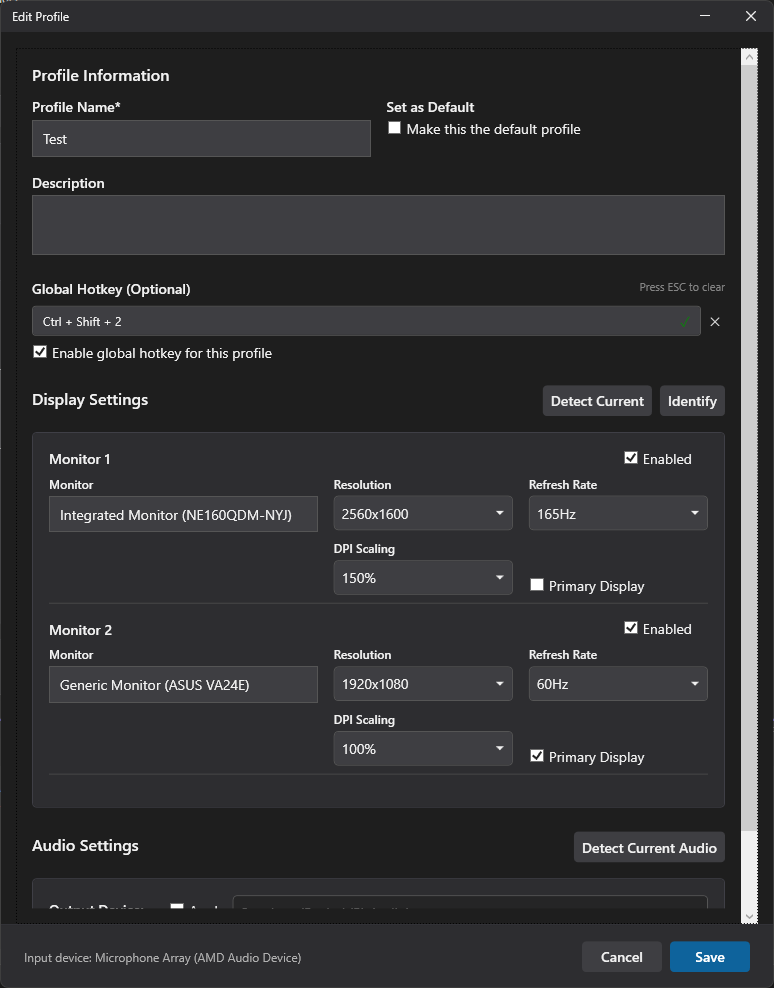
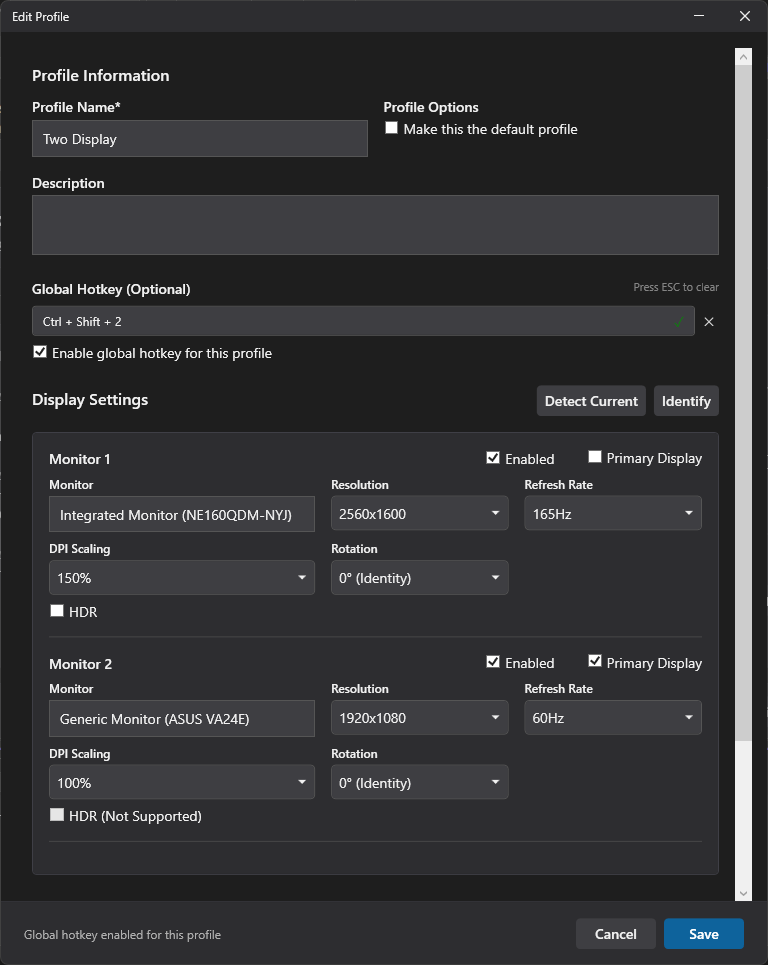
docs: update documentation to reflect HDR, rotation, and staged application features
Enhance CLAUDE.md with comprehensive architecture documentation including:
- Detailed Display Configuration Engine flow with staged application mode
- Expanded component descriptions (DisplayConfigHelper, ProfileManager, etc.)
- Profile structure with HDR and rotation properties
- Development guidelines for display configuration and WPF UI patterns
- JSON serialization backward compatibility notes

Update README.md to document new features:
- HDR support for HDR-capable displays
- Screen rotation control (0°, 90°, 180°, 270°)
- Staged application mode for complex multi-monitor setups
- Updated screenshots showing new UI controls
- Credit @jarandal for feature contributions in PR #8

diff --git a/CLAUDE.md b/CLAUDE.md
@@ -4,7 +4,7 @@ This file provides guidance to Claude Code (claude.ai/code) when working with co
 
 ## Project Overview
 
-Display Profile Manager is a Windows desktop application for managing display profiles (resolution, refresh rate, DPI, audio devices) with system tray control. Built with C# (.NET Framework 4.8) and WPF.
+Display Profile Manager is a Windows desktop application for managing display profiles (resolution, refresh rate, DPI, HDR, rotation, audio devices) with system tray control. Built with C# (.NET Framework 4.8) and WPF.
 
 ## Build and Run Commands
 
@@ -18,60 +18,117 @@ cmd.exe //c "msbuild DisplayProfileManager.sln /t:Rebuild /p:Configuration=Debug
 
 # Run
 cmd.exe //c "start bin\Debug\DisplayProfileManager.exe"
+
+# Build for specific platforms (x86, x64, ARM64 supported)
+cmd.exe //c "msbuild DisplayProfileManager.sln /p:Configuration=Release /p:Platform=x64"
 ```
 
 ## Architecture
 
 ### Core Patterns
-- **Singletons**: ProfileManager and SettingsManager for global state (thread-safe)
+- **Singletons**: ProfileManager and SettingsManager for global state (thread-safe, double-check locking)
 - **Async/Await**: All file I/O operations
-- **P/Invoke**: Windows display/DPI/audio APIs via Helper classes
-- **MVVM**: ViewModels for UI state
-- **Logging**: NLog
+- **P/Invoke**: Windows Display Configuration, DPI, and Audio APIs via Helper classes
+- **MVVM**: ViewModels for UI state management
+- **Logging**: NLog with structured logging
 
 ### Key Components
-- **ProfileManager**: Thread-safe singleton for profile CRUD, stores individual `.dpm` files in `%AppData%/DisplayProfileManager/Profiles/`
-- **SettingsManager**: Thread-safe singleton for app settings, supports dual auto-start modes (Registry or Task Scheduler)
-- **AutoStartHelper**: Registry mode (no admin) or Task Scheduler mode (requires admin for setup, faster launch)
-- **DisplayHelper/DpiHelper/AudioHelper**: P/Invoke wrappers for Windows APIs
-- **GlobalHotkeyHelper**: System-wide hotkey registration for profile switching
-- **TrayIcon**: System tray integration with dynamic context menu
+- **ProfileManager**: Thread-safe singleton for profile CRUD and application. Stores individual `.dpm` files in `%AppData%/DisplayProfileManager/Profiles/`. Core method: `ApplyProfileAsync(Profile)` returns `ProfileApplyResult`.
+- **SettingsManager**: Thread-safe singleton for app settings. Supports dual auto-start modes (Registry or Task Scheduler) and staged application configuration.
+- **DisplayConfigHelper**: Modern Windows Display Configuration API wrapper using `SetDisplayConfig`. Handles atomic topology application (resolution, refresh rate, position, primary, HDR, rotation, enable/disable). **Critical**: This replaces legacy `ChangeDisplaySettingsEx` for reliability.
+- **DisplayHelper**: Legacy display API wrapper (being phased out in favor of DisplayConfigHelper for topology changes).
+- **DpiHelper**: System-wide DPI scaling via P/Invoke (adapted from windows-DPI-scaling-sample).
+- **AudioHelper**: Audio device management using AudioSwitcher.AudioApi for playback/recording device switching.
+- **AutoStartHelper**: Registry mode (no admin) or Task Scheduler mode (requires admin for setup, faster launch).
+- **GlobalHotkeyHelper**: System-wide hotkey registration using `RegisterHotKey` for profile switching.
+- **TrayIcon**: System tray integration with dynamically generated context menu from profiles.
+
+### Display Configuration Engine (Modern Approach)
+The application uses Windows Display Configuration API (`SetDisplayConfig`) for atomic, reliable profile switching:
+
+**Flow**: `ProfileManager.ApplyProfileAsync` → builds `List<DisplayConfigInfo>` → `DisplayConfigHelper.ApplyDisplayTopology` or `ApplyStagedConfiguration` → `SetDisplayConfig` → `ApplyHdrSettings`
+
+**Staged Application Mode**: Optional two-phase application for complex multi-monitor setups:
+- Phase 1: Apply topology to currently active displays only (partial update)
+- Configurable pause (default 1000ms, range 1-5000ms)
+- Phase 2: Apply full target topology including newly enabled displays
+- Controlled by `UseStagedApplication` and `StagedApplicationPauseMs` settings
+
+**Why Staged Mode**: Prevents driver instability when enabling new displays with complex settings (HDR, high refresh rate) while simultaneously changing existing displays.
 
 ### Data Storage
-- Profiles: `%AppData%/DisplayProfileManager/Profiles/*.dpm` (JSON)
+- Profiles: `%AppData%/DisplayProfileManager/Profiles/*.dpm` (JSON, one file per profile)
 - Settings: `%AppData%/DisplayProfileManager/settings.json` (JSON)
-- Logs: `%AppData%/DisplayProfileManager/Logs/` (daily rotation, 30-day retention)
+- Logs: `%AppData%/DisplayProfileManager/Logs/` (daily rotation, 30-day retention via NLog)
+
+### Profile Structure (DisplaySetting Properties)
+Each monitor in a profile includes:
+- `DeviceName`, `DeviceString`: Monitor identification
+- `Width`, `Height`, `Frequency`: Resolution and refresh rate
+- `Position` (X, Y): Monitor position in virtual desktop
+- `IsPrimary`: Primary display flag
+- `IsEnabled`: Enable/disable monitor
+- `IsHdrSupported`, `IsHdrEnabled`: HDR capability and state
+- `Rotation`: Screen orientation (1=0°, 2=90°, 3=180°, 4=270°) - maps to `DISPLAYCONFIG_ROTATION` enum
+- `DpiScaling`: Windows DPI scaling percentage
 
 ## Dependencies
-- **.NET Framework 4.8**: WPF support
-- **Newtonsoft.Json 13.0.3**: JSON serialization
-- **NLog 6.0.4**: Logging framework
-- **AudioSwitcher.AudioApi 3.0.0/3.0.3**: Audio device management
-- **packages.config**: Traditional NuGet package management (not PackageReference)
+- **.NET Framework 4.8**: WPF support, required for Windows 7+ compatibility
+- **Newtonsoft.Json 13.0.3**: JSON serialization for profiles and settings
+- **NLog 6.0.4**: Logging framework with daily file rotation
+- **AudioSwitcher.AudioApi 3.0.0/3.0.3**: Audio device management (CoreAudio wrapper)
+- **packages.config**: Traditional NuGet package management (not PackageReference) - project uses legacy .csproj format
 
 ## Platform Requirements
-- **Windows**: 7+ (Vista+ compatible via manifest)
+- **Windows**: 7+ (Vista+ compatible via app.manifest)
 - **Privileges**: Standard user (`asInvoker`). Admin only required for Task Scheduler auto-start setup.
-- **DPI Awareness**: Per-monitor V2 via app.manifest
+- **DPI Awareness**: Per-monitor V2 via app.manifest for proper multi-DPI support
+- **Architectures**: AnyCPU (default), x86, x64, ARM64 builds supported
 
 ## Development Guidelines
 
 ### Logging
 - Use NLog: `private static readonly Logger logger = LoggerHelper.GetLogger();`
-- LoggerHelper automatically uses calling class name
+- LoggerHelper automatically uses calling class name via `StackFrame` reflection
 - Logs to `%AppData%/DisplayProfileManager/Logs/DisplayProfileManager-{date}.log`
+- Log levels: Trace (verbose), Debug (development), Info (normal), Warn, Error, Fatal
+
+### Display Configuration Changes
+- **Always use DisplayConfigHelper.ApplyDisplayTopology** for topology changes (resolution, refresh rate, position, enable/disable, primary)
+- **Never use ChangeDisplaySettingsEx directly** - less reliable for multi-monitor
+- Build complete topology as `List<DisplayConfigInfo>` before applying
+- HDR changes applied **after** successful topology application
+- Rotation is part of topology (applied atomically with resolution/position)
 
 ### Auto-Start Implementation
 - Dual mode: Registry (no admin) vs Task Scheduler (admin required for setup)
 - **Critical**: When using Task Scheduler without admin, must use `UseShellExecute = true` + `Verb = "runas"` to trigger UAC
-- Never use `Verb = "runas"` with `UseShellExecute = false` (Verb is ignored)
+- Never use `Verb = "runas"` with `UseShellExecute = false` (Verb is ignored by .NET)
 
 ### Error Handling
-- Return boolean success/failure indicators
-- Use NLog for all error logging
-- Graceful degradation (return empty collections, don't crash)
+- Return boolean success/failure indicators or strongly-typed result objects (`ProfileApplyResult`)
+- Use NLog for all error logging with context (device names, settings attempted)
+- Graceful degradation: return empty collections on failure, don't crash
+- P/Invoke errors: check return codes (`ERROR_SUCCESS = 0`)
+
+### WPF UI Guidelines
+- Extract reusable UI components as standalone `UserControl` in `/src/UI/Controls/` with separate `.xaml` and `.xaml.cs` files
+- Avoid inner classes for UI components in code-behind
+- Use converters in `/src/UI/Converters/` for data binding transformations
+- Theme resources in `/src/UI/Themes/` (LightTheme.xaml, DarkTheme.xaml)
 
 ### File Structure
-- `/src/Core/`: Business logic (ProfileManager, SettingsManager)
-- `/src/UI/`: WPF views and ViewModels
+- `/src/Core/`: Business logic (ProfileManager, SettingsManager, Profile, HotkeyConfig)
+- `/src/UI/Windows/`: WPF windows (MainWindow, ProfileEditWindow, SettingsWindow, MonitorIdentifyWindow)
+- `/src/UI/Controls/`: Custom UserControls (HotkeyEditorControl)
+- `/src/UI/ViewModels/`: MVVM view models
+- `/src/UI/Converters/`: Value converters for data binding
+- `/src/UI/Themes/`: Theme ResourceDictionaries
 - `/src/Helpers/`: P/Invoke wrappers and utilities
+- `/Properties/`: Assembly info and embedded resources
+- `/docs/`: Documentation and sample code references
+
+### JSON Serialization Notes
+- All profile/settings properties use `[JsonProperty("name")]` attributes for consistent naming
+- Backward compatibility: New properties must have sensible defaults for loading old `.dpm` files
+- Example: `IsHdrEnabled` defaults to `false`, `Rotation` defaults to `1` (0°) for profiles created before HDR/rotation support

diff --git a/README.md b/README.md
@@ -25,6 +25,9 @@ A lightweight Windows desktop application for managing display profiles with qui
 - 🖥 **Primary Display Management** - Control which monitor is set as primary
 - 📋 **Profile Duplication** - Quickly duplicate existing profiles for easy modifications
 - 🔍 **Monitor Identification Overlay** - Visual overlay to identify monitors during configuration
+- 🎨 **HDR Support** - Enable/disable High Dynamic Range for HDR-capable displays
+- 🔄 **Screen Rotation Control** - Configure screen orientation (0°, 90°, 180°, 270°) per monitor
+- ⚙ **Staged Application Mode** - Optional two-phase settings application for enhanced stability on complex multi-monitor setups
 
 ## 📸 Screenshots
 
@@ -36,7 +39,7 @@ A lightweight Windows desktop application for managing display profiles with qui
 
 ### Profile Editor
 
-*Configure resolution, refresh rate, DPI settings for each monitor, hotkey, and audio device preferences*
+*Configure resolution, refresh rate, HDR, rotation, DPI settings for each monitor, hotkey, and audio device preferences*
 
 ![Profile Editor](docs/screenshots/edit-screen.png)
 ![Profile Editor](docs/screenshots/edit-screen2.png)
@@ -75,7 +78,7 @@ A lightweight Windows desktop application for managing display profiles with qui
 ### Creating a Profile
 1. Right-click the system tray icon and select "Manage Profiles"
 2. Click "Add New Profile"
-3. Configure your desired resolution, refresh rate, and DPI settings for each monitor
+3. Configure your desired resolution, refresh rate, HDR, rotation, and DPI settings for each monitor
 4. Optionally select default playback and recording audio devices for the profile
 5. Choose which audio devices to apply (playback, recording, or both) using the checkboxes
 6. Click "Save" to store the profile
@@ -91,6 +94,9 @@ A lightweight Windows desktop application for managing display profiles with qui
   - **Task Scheduler Mode**: Requires admin for initial setup, provides faster launch times
 - Choose your default profile to apply on Windows startup
 - Toggle between light, dark or system themes
+- Configure advanced display settings:
+  - **Staged Application Mode**: Enable two-phase profile application for complex multi-monitor setups (improves stability)
+  - **Application Pause Duration**: Adjust the delay between phases (1-5000ms)
 
 ## 🛠 Development
 
@@ -164,7 +170,7 @@ DisplayProfileManager/
 - **Logs**: `%AppData%\DisplayProfileManager\Logs\` (NLog with daily rotation, 30-day retention)
 
 **APIs & Libraries**
-- **Display Management**: Windows Display Configuration APIs via P/Invoke
+- **Display Management**: Windows Display Configuration APIs (SetDisplayConfig) via P/Invoke for atomic topology changes
 - **Audio Management**: AudioSwitcher.AudioApi for device control
 - **Logging**: NLog for structured logging with automatic daily file rotation
 - **Serialization**: Newtonsoft.Json for profile and settings persistence
@@ -226,6 +232,7 @@ For detailed license information about third-party dependencies, see [THIRD-PART
 - [@Alienmario](https://github.com/Alienmario) - Recommended AudioSwitcher.AudioApi library, suggested per-device "Don't change" options ([#1](https://github.com/zac15987/DisplayProfileManager/issues/1)), and reported multi-monitor switching issues ([#5](https://github.com/zac15987/DisplayProfileManager/issues/5))
 - [@anodynos](https://github.com/anodynos) - Suggested global hotkey functionality for quick profile switching ([#2](https://github.com/zac15987/DisplayProfileManager/issues/2))
 - [@xtrilla](https://github.com/xtrilla) - Requested monitor disable/enable feature for selective display control ([#4](https://github.com/zac15987/DisplayProfileManager/issues/4))
+- [@jarandal](https://github.com/jarandal) - Implemented HDR support, screen rotation control, and Staged Application mode with enhanced display configuration engine ([#8](https://github.com/zac15987/DisplayProfileManager/pull/8))
 - The open-source community for inspiration and support
 
 ---
